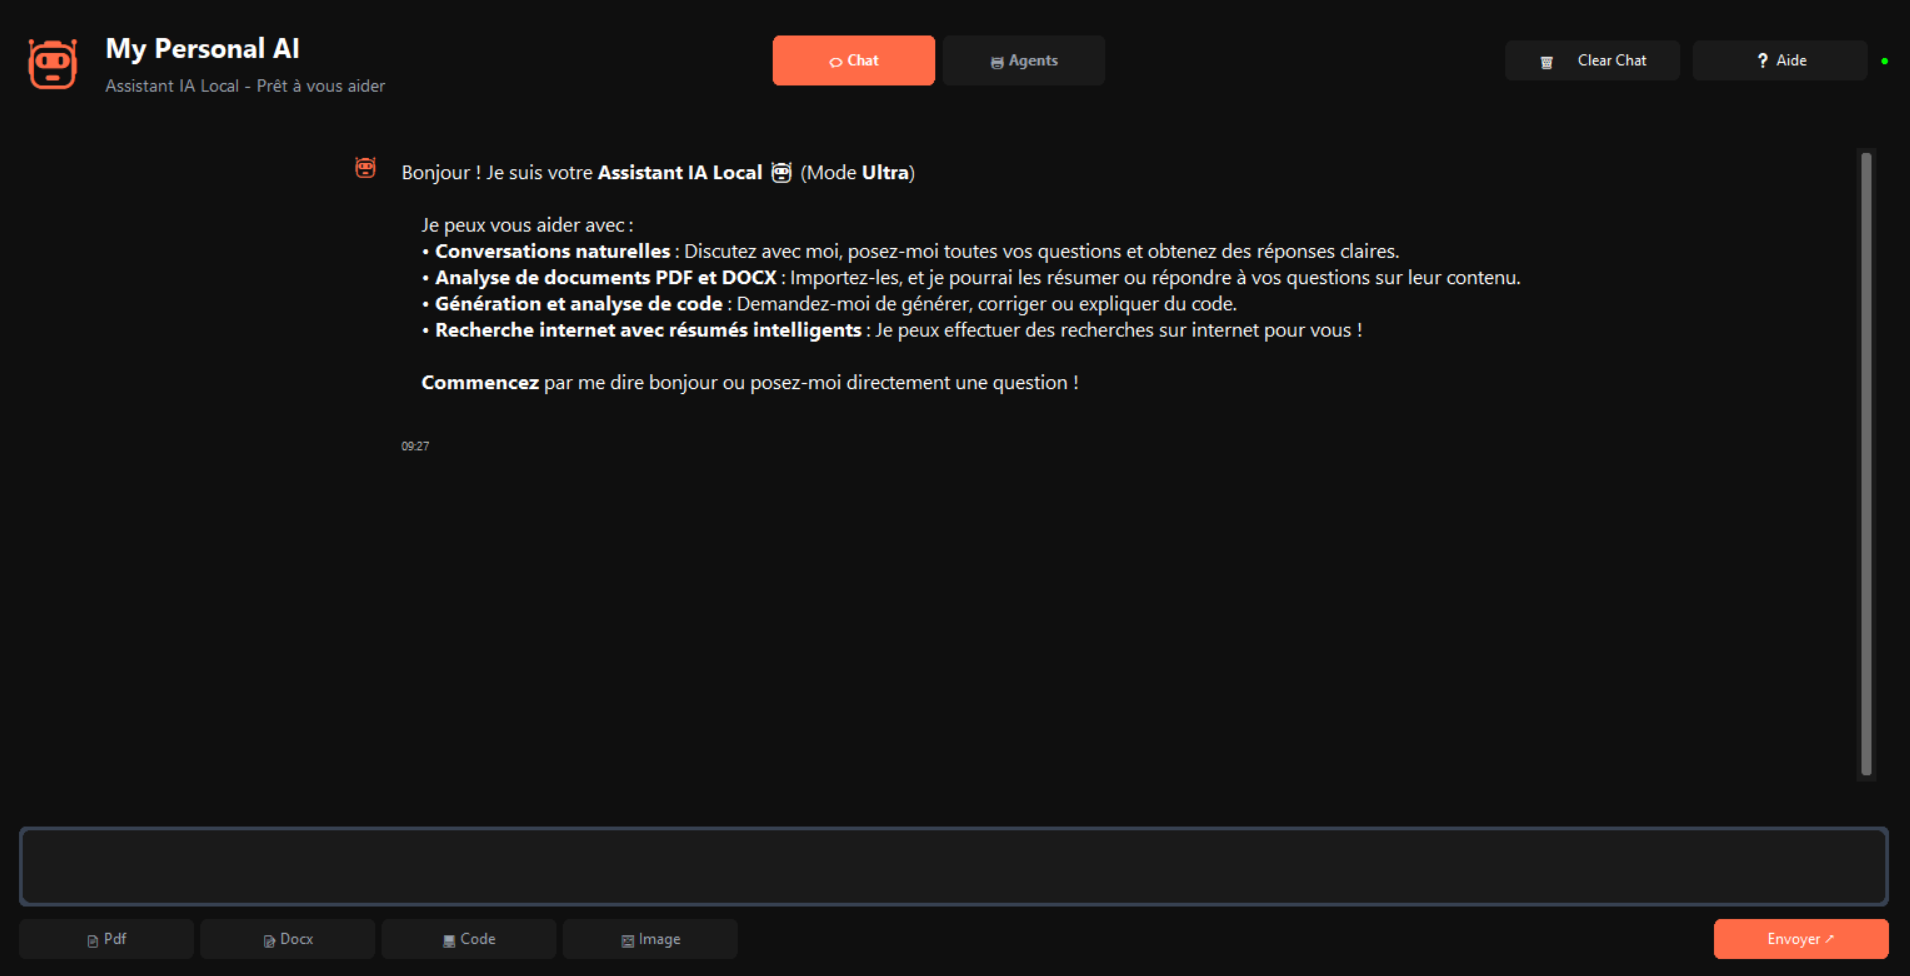
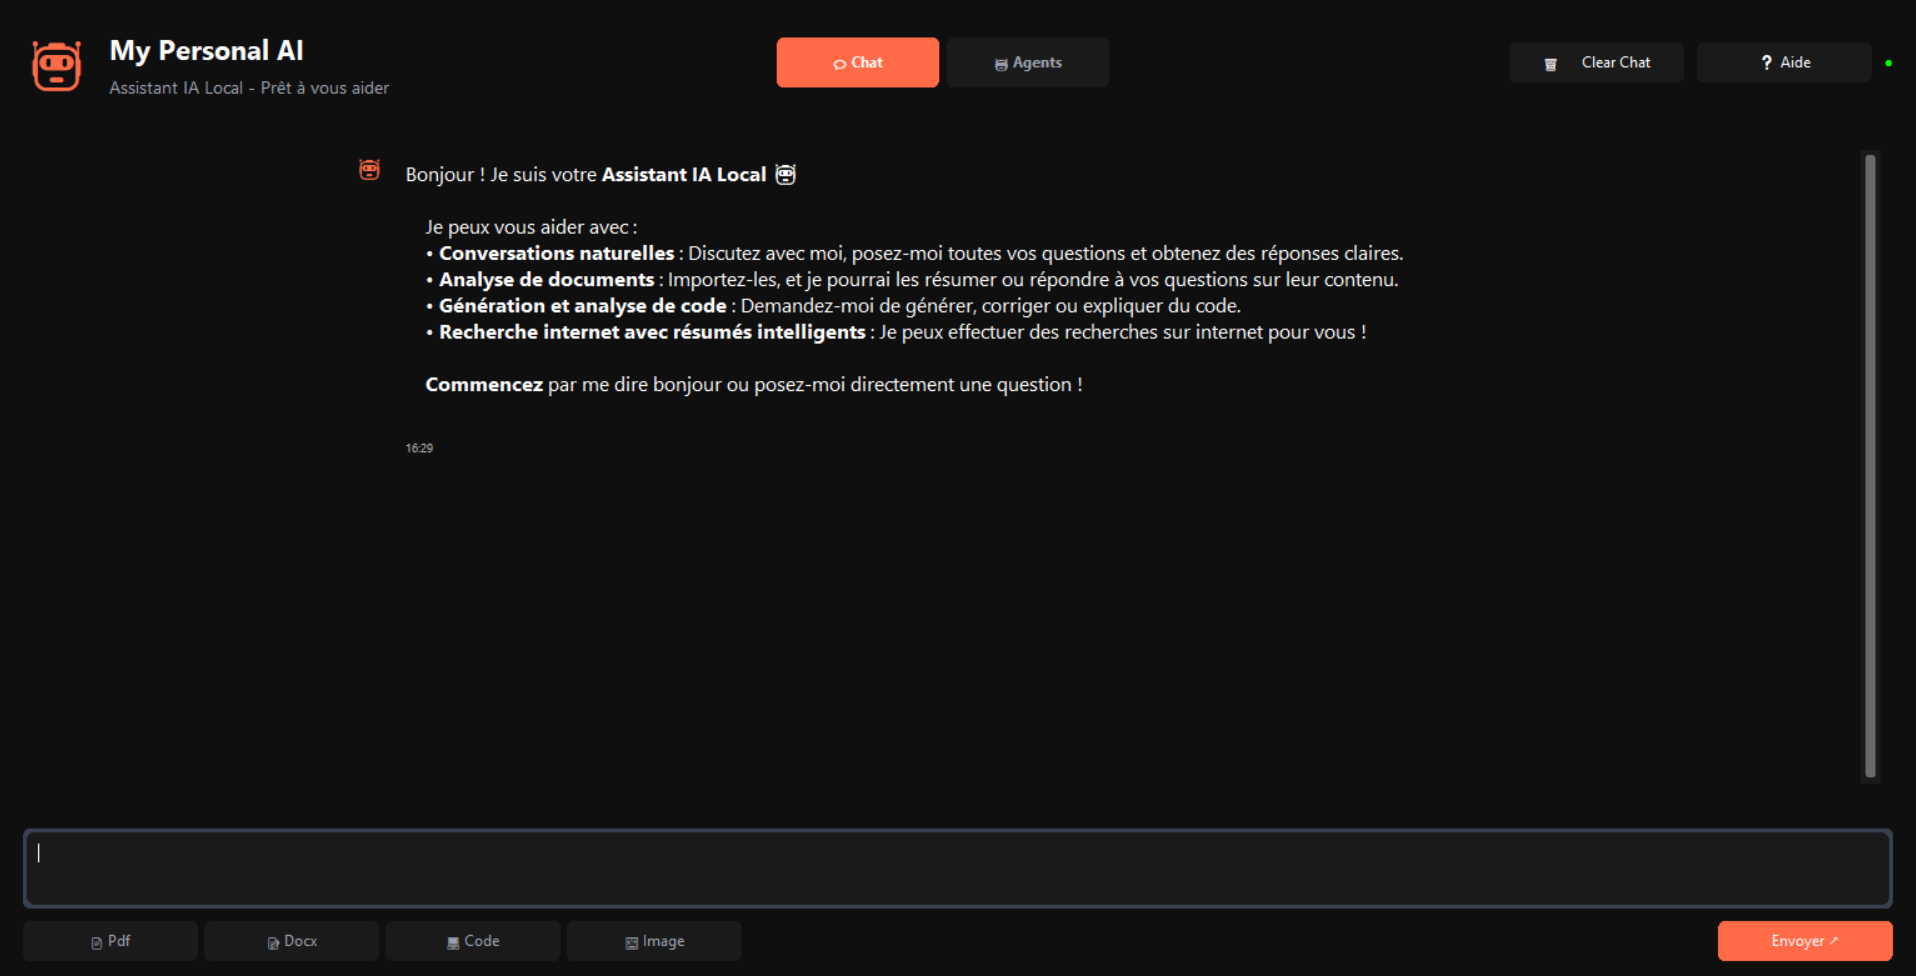
fix: simplify welcome message and update document analysis description in BaseGUI

diff --git a/interfaces/gui/base.py b/interfaces/gui/base.py
@@ -1477,19 +1477,11 @@ class BaseGUI:
 
     def show_welcome_message(self):
         """Affiche le message de bienvenue initial"""
-        # Détection des capacités CustomAI
-        ultra_status = ""
-        if hasattr(self, "custom_ai") and self.custom_ai:
-            if self.custom_ai.ultra_mode:
-                ultra_status = """ (Mode **Ultra**)"""
-            else:
-                ultra_status = """ (Mode **Classique**)"""
-
-        welcome_text = f"""Bonjour ! Je suis votre **Assistant IA Local** 🤖{ultra_status}
+        welcome_text = """Bonjour ! Je suis votre **Assistant IA Local** 🤖
 
     Je peux vous aider avec :
     • **Conversations naturelles** : Discutez avec moi, posez-moi toutes vos questions et obtenez des réponses claires.
-    • **Analyse de documents PDF et DOCX** : Importez-les, et je pourrai les résumer ou répondre à vos questions sur leur contenu.
+    • **Analyse de documents** : Importez-les, et je pourrai les résumer ou répondre à vos questions sur leur contenu.
     • **Génération et analyse de code** : Demandez-moi de générer, corriger ou expliquer du code.
     • **Recherche internet avec résumés intelligents** : Je peux effectuer des recherches sur internet pour vous !
 
@@ -1505,7 +1497,7 @@ class BaseGUI:
 **📝 Comment utiliser :**
 • Tapez votre message et appuyez sur Entrée
 • Utilisez Shift+Entrée pour un saut de ligne
-• Utilisez les boutons PDF/DOCX/Code
+• Utilisez les boutons pour des actions rapides
 
 **💬 Exemples de messages :**
 • "Bonjour" - Salutation
